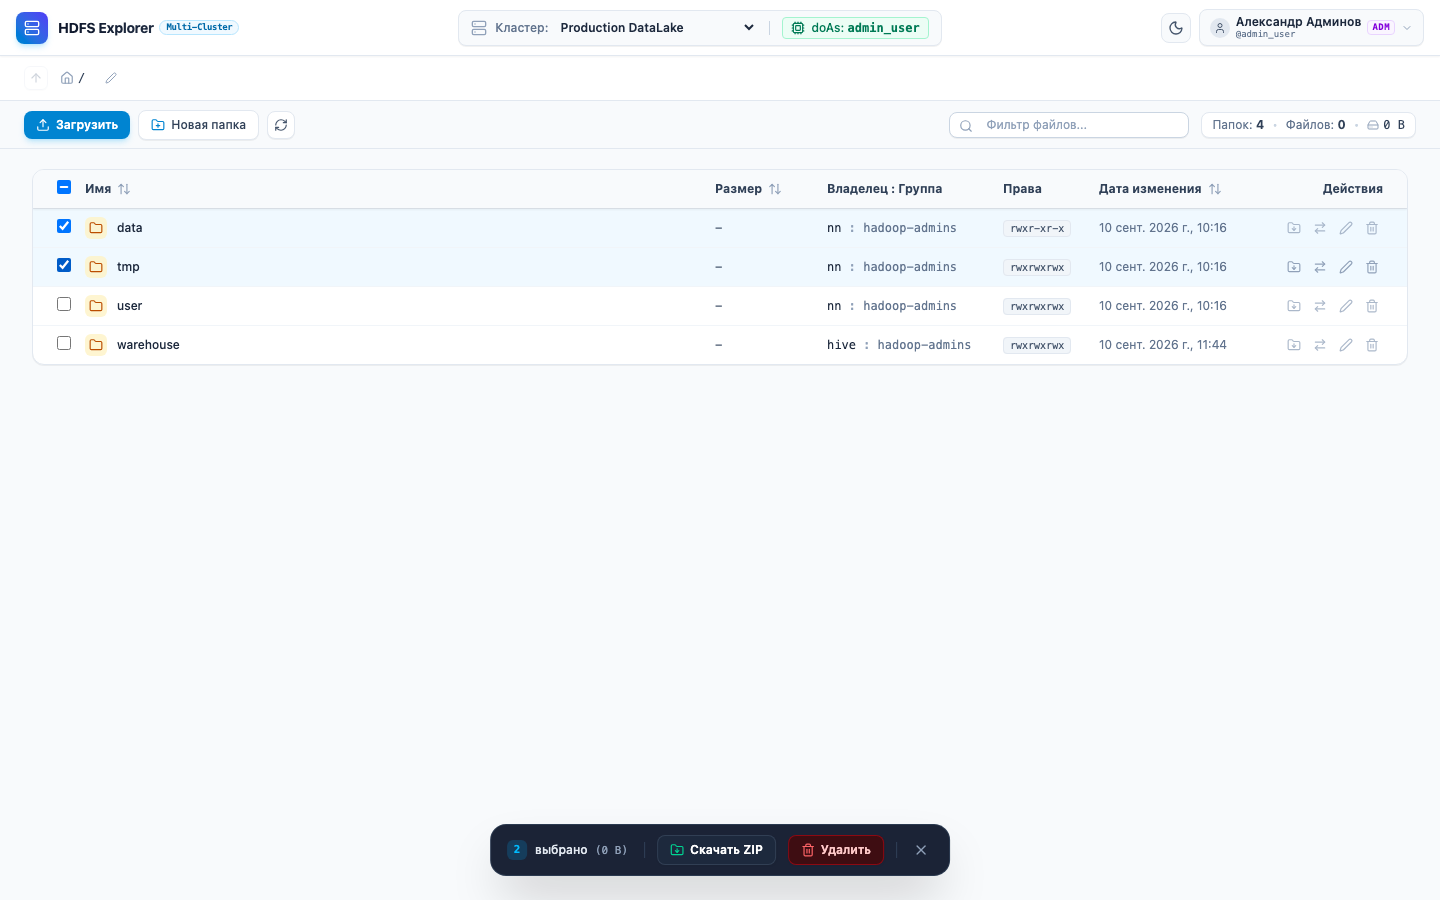
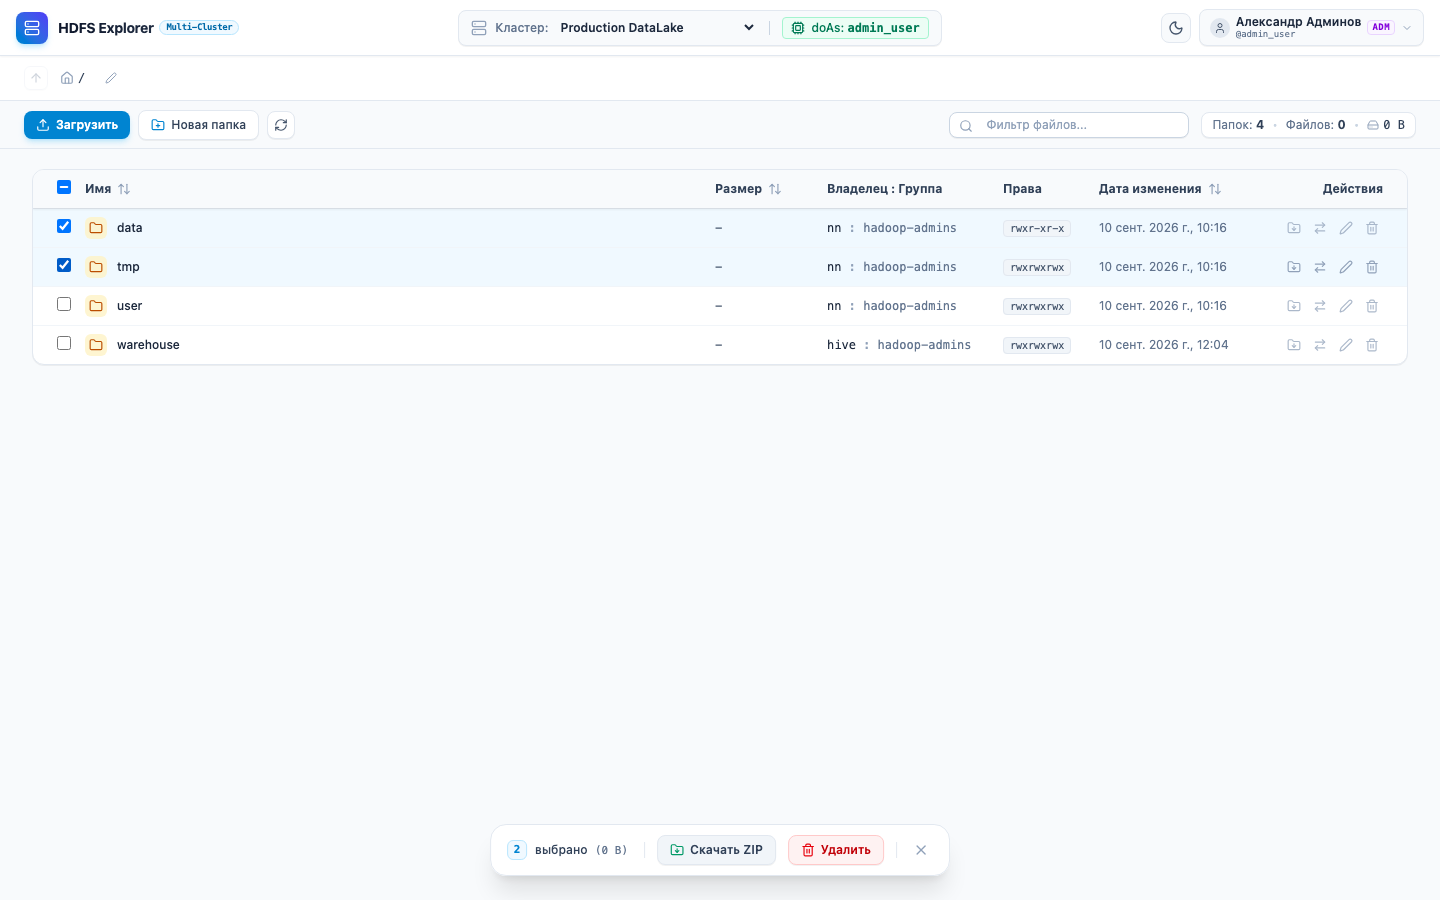
fix(hdfs): adapt batch action bar for light and dark themes and update screenshots

Changed region(s): [[0.3125, 0.9022, 0.6875, 0.9956]]

diff --git a/frontend/apps/hdfs/src/lib/components/BatchActionBar.svelte b/frontend/apps/hdfs/src/lib/components/BatchActionBar.svelte
@@ -42,36 +42,36 @@
 {#if explorerStore.selectedFileNames.length > 0}
   <aside
     aria-label="Панель пакетных действий"
-    class="fixed bottom-6 left-1/2 -translate-x-1/2 z-40 bg-slate-900/95 dark:bg-slate-800/95 text-white backdrop-blur-md px-4 py-2.5 rounded-2xl shadow-2xl border border-slate-700/80 flex items-center gap-3 select-none animate-in fade-in slide-in-from-bottom-4 duration-200"
+    class="fixed bottom-6 left-1/2 -translate-x-1/2 z-40 bg-white/95 dark:bg-slate-900/95 text-slate-800 dark:text-white backdrop-blur-md px-4 py-2.5 rounded-2xl shadow-xl border border-slate-200 dark:border-slate-800 flex items-center gap-3 select-none animate-in fade-in slide-in-from-bottom-4 duration-200"
   >
     <!-- Бейдж количества и размера -->
     <div class="flex items-center gap-2 pr-1 text-xs">
-      <span class="flex items-center justify-center w-5 h-5 rounded-md bg-sky-500/20 text-sky-400 font-mono font-bold text-[11px]">
+      <span class="flex items-center justify-center w-5 h-5 rounded-md bg-sky-50 dark:bg-sky-500/20 text-sky-600 dark:text-sky-400 border border-sky-200 dark:border-sky-500/30 font-mono font-bold text-[11px]">
         {explorerStore.selectedFileNames.length}
       </span>
-      <span class="font-medium text-slate-200">
+      <span class="font-medium text-slate-700 dark:text-slate-200">
         выбрано
-        <span class="text-slate-400 text-[11px] font-mono ml-1">
+        <span class="text-slate-500 dark:text-slate-400 text-[11px] font-mono ml-1">
           ({formatBytes(explorerStore.selectedTotalSize)})
         </span>
       </span>
     </div>
 
-    <div class="h-4 w-px bg-slate-700 shrink-0"></div>
+    <div class="h-4 w-px bg-slate-200 dark:bg-slate-700 shrink-0"></div>
 
     <!-- Кнопка Скачать ZIP -->
     <button
       type="button"
       onclick={handleBatchDownload}
       disabled={isDownloading}
-      class="inline-flex items-center gap-1.5 px-3 py-1.5 rounded-lg bg-slate-800 dark:bg-slate-700 hover:bg-slate-700 dark:hover:bg-slate-600 active:bg-slate-600 text-xs font-semibold transition cursor-pointer border border-slate-600/50 disabled:opacity-50 shadow-xs"
+      class="inline-flex items-center gap-1.5 px-3 py-1.5 rounded-lg bg-slate-100 hover:bg-slate-200 active:bg-slate-300 dark:bg-slate-800 dark:hover:bg-slate-700 dark:active:bg-slate-600 text-slate-700 dark:text-slate-200 text-xs font-semibold transition cursor-pointer border border-slate-200 dark:border-slate-700 disabled:opacity-50 shadow-2xs"
       title="Скачать выбранные файлы и папки единым ZIP-архивом"
     >
       {#if isDownloading}
-        <Loader2 class="w-3.5 h-3.5 animate-spin text-sky-400" />
+        <Loader2 class="w-3.5 h-3.5 animate-spin text-sky-600 dark:text-sky-400" />
         <span>Упаковка ZIP...</span>
       {:else}
-        <FolderDown class="w-3.5 h-3.5 text-emerald-400" />
+        <FolderDown class="w-3.5 h-3.5 text-emerald-600 dark:text-emerald-400" />
         <span>Скачать ZIP</span>
       {/if}
     </button>
@@ -81,20 +81,20 @@
       type="button"
       onclick={onOpenBatchDelete}
       disabled={!explorerStore.canWrite}
-      class="inline-flex items-center gap-1.5 px-3 py-1.5 rounded-lg bg-red-950/80 hover:bg-red-900 border border-red-800/80 text-red-200 hover:text-white text-xs font-semibold transition cursor-pointer disabled:opacity-40 disabled:cursor-not-allowed shadow-xs"
+      class="inline-flex items-center gap-1.5 px-3 py-1.5 rounded-lg bg-red-50 hover:bg-red-100 active:bg-red-200 dark:bg-red-950/80 dark:hover:bg-red-900 border border-red-200 dark:border-red-800/80 text-red-700 hover:text-red-800 dark:text-red-200 dark:hover:text-white text-xs font-semibold transition cursor-pointer disabled:opacity-40 disabled:cursor-not-allowed shadow-2xs"
       title={explorerStore.canWrite ? 'Удалить все выбранные объекты' : 'Кластер только для чтения'}
     >
-      <Trash2 class="w-3.5 h-3.5 text-red-400" />
+      <Trash2 class="w-3.5 h-3.5 text-red-600 dark:text-red-400" />
       <span>Удалить</span>
     </button>
 
-    <div class="h-4 w-px bg-slate-700 shrink-0"></div>
+    <div class="h-4 w-px bg-slate-200 dark:bg-slate-700 shrink-0"></div>
 
     <!-- Сброс выделения -->
     <button
       type="button"
       onclick={() => explorerStore.clearSelection()}
-      class="p-1 rounded-lg text-slate-400 hover:text-slate-200 hover:bg-slate-800 transition cursor-pointer"
+      class="p-1 rounded-lg text-slate-400 hover:text-slate-600 dark:hover:text-slate-200 hover:bg-slate-100 dark:hover:bg-slate-800 transition cursor-pointer"
       title="Снять выделение (Esc)"
     >
       <X class="w-4 h-4" />
